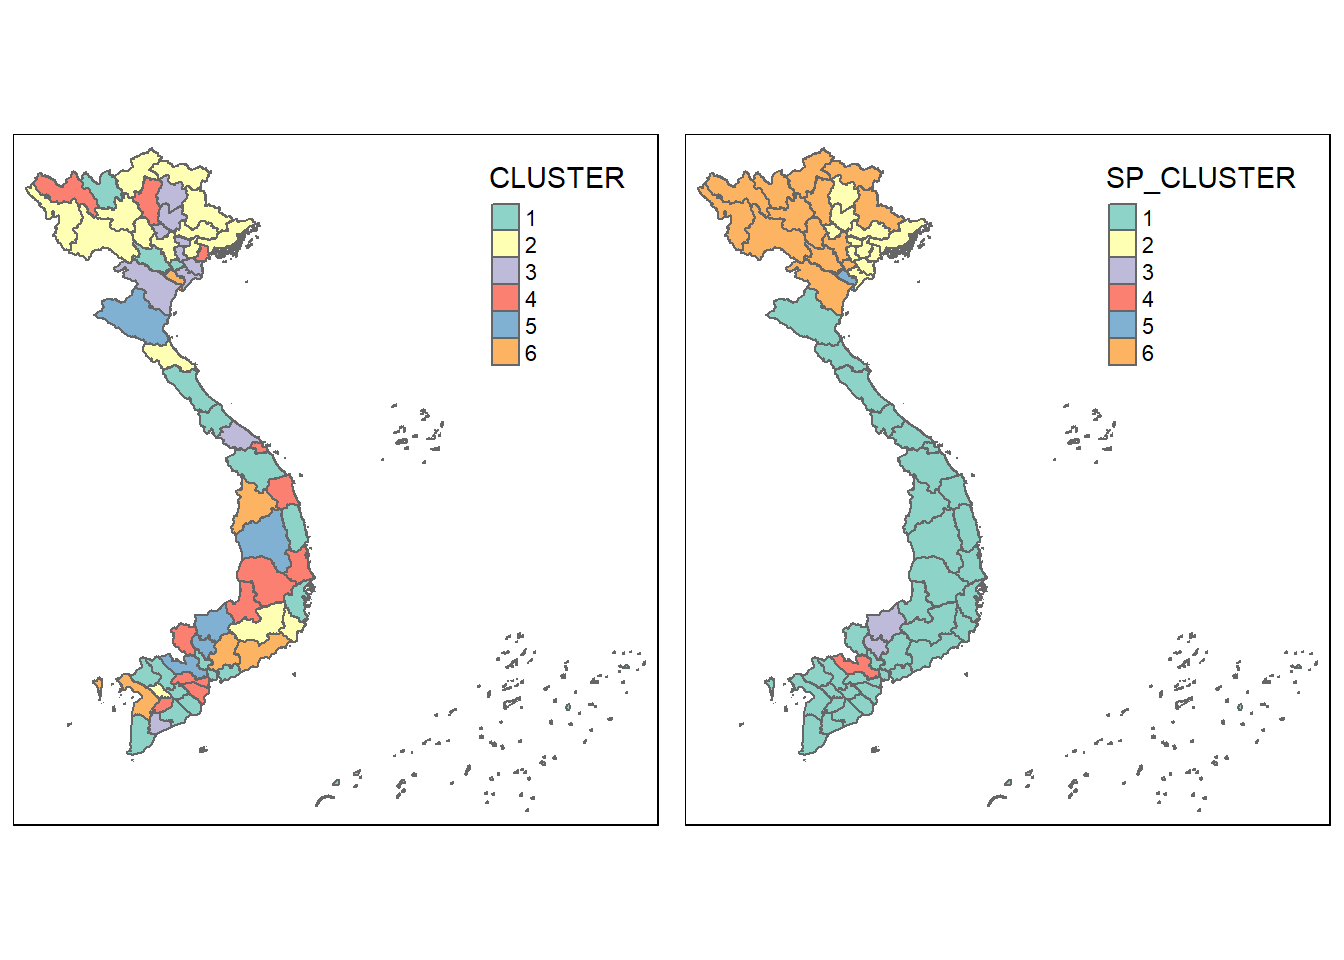
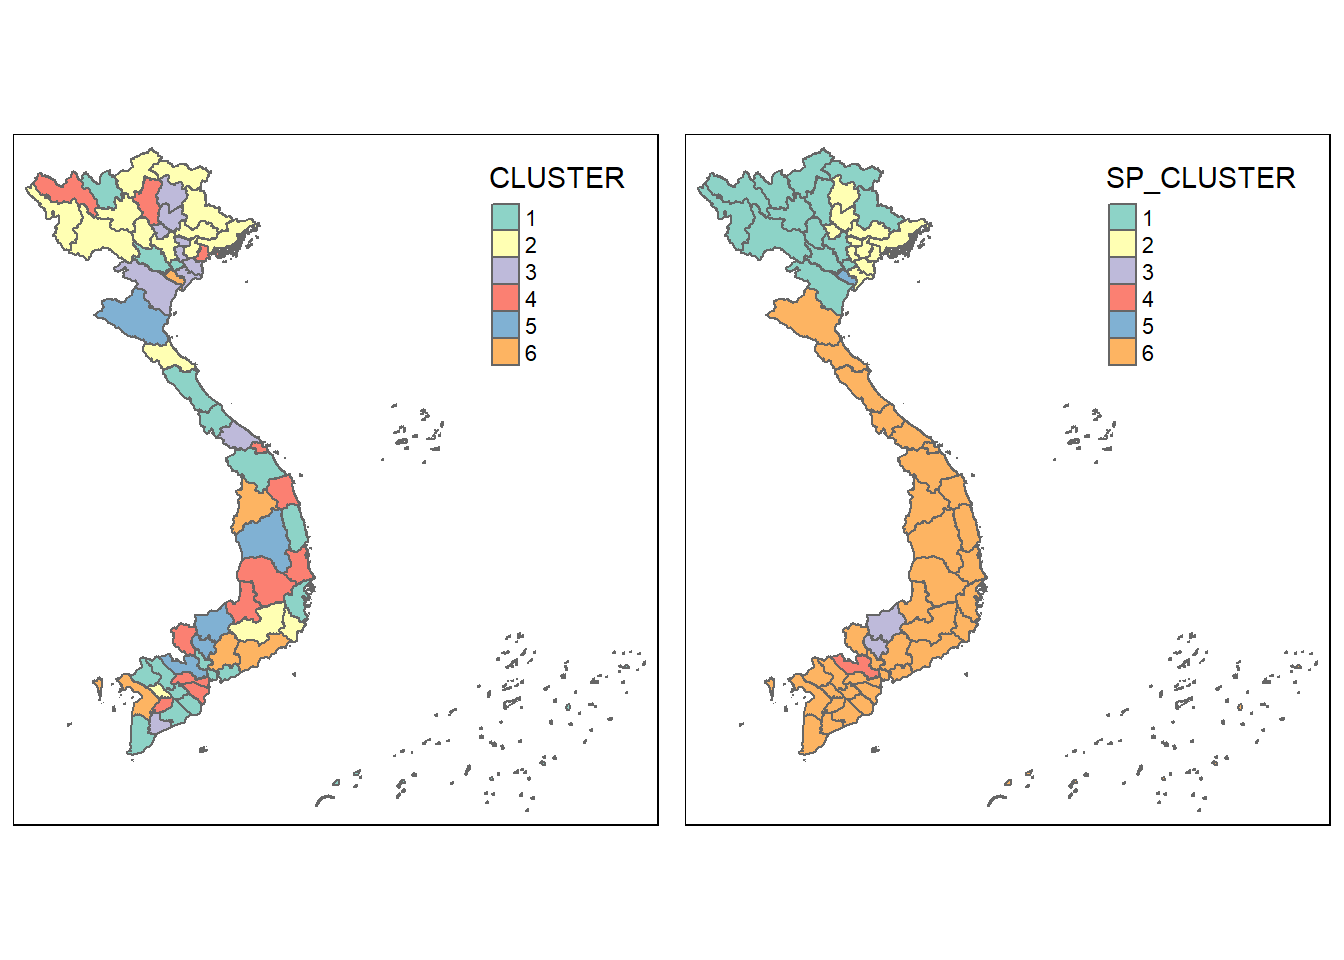
the3 final commit

Changed region(s): [[0.5938, 0.375, 0.75, 0.7812], [0.5, 0.1562, 0.6875, 0.375]]

diff --git a/_site/Take-home_Ex/Take-home_Ex03/the03.html b/_site/Take-home_Ex/Take-home_Ex03/the03.html
@@ -6,7 +6,7 @@
 
 <meta name="viewport" content="width=device-width, initial-scale=1.0, user-scalable=yes">
 
-<meta name="dcterms.date" content="2024-03-15">
+<meta name="dcterms.date" content="2024-03-24">
 
 <title>IS415-GAA - Take-home Exercise 03</title>
 <style>
@@ -153,6 +153,14 @@ pre > code.sourceCode > span > a:first-child::before { text-decoration: underlin
     <a class="dropdown-item" href="../../Hands-on_Ex/Hands-on_Ex08/Hands-on_Ex08.html" rel="" target="">
  <span class="dropdown-text">Hands-on Exercise 8</span></a>
   </li>  
+        <li>
+    <a class="dropdown-item" href="../../Hands-on_Ex/Hands-on_Ex09/Hands-on_Ex09.html" rel="" target="">
+ <span class="dropdown-text">Hands-on Exercise 9</span></a>
+  </li>  
+        <li>
+    <a class="dropdown-item" href="../../Hands-on_Ex/Hands-on_Ex09/Hands-on_Ex10.html" rel="" target="">
+ <span class="dropdown-text">Hands-on Exercise 10</span></a>
+  </li>  
     </ul>
   </li>
   <li class="nav-item dropdown ">
@@ -203,6 +211,10 @@ pre > code.sourceCode > span > a:first-child::before { text-decoration: underlin
     <a class="dropdown-item" href="../../Take-Home_Ex/Take-Home_Ex02/Take-Home_Ex02.html" rel="" target="">
  <span class="dropdown-text">Take home Exercise 2</span></a>
   </li>  
+        <li>
+    <a class="dropdown-item" href="../../Take-Home_Ex/Take-Home_Ex03/the03.html" rel="" target="">
+ <span class="dropdown-text">Take home Exercise 3</span></a>
+  </li>  
     </ul>
   </li>
 </ul>
@@ -233,7 +245,14 @@ pre > code.sourceCode > span > a:first-child::before { text-decoration: underlin
   <ul>
   <li><a href="#data-preparation-and-wrangling" id="toc-data-preparation-and-wrangling" class="nav-link active" data-scroll-target="#data-preparation-and-wrangling">1.0 Data preparation and wrangling</a></li>
   <li><a href="#clustering-using-skater-method" id="toc-clustering-using-skater-method" class="nav-link" data-scroll-target="#clustering-using-skater-method">2.0 Clustering using SKATER method</a></li>
-  <li><a href="#storyboard-ui" id="toc-storyboard-ui" class="nav-link" data-scroll-target="#storyboard-ui">3.0 Storyboard UI</a></li>
+  <li><a href="#storyboard-ui" id="toc-storyboard-ui" class="nav-link" data-scroll-target="#storyboard-ui">3.0 Storyboard UI</a>
+  <ul class="collapse">
+  <li><a href="#introduction" id="toc-introduction" class="nav-link" data-scroll-target="#introduction">3.1 Introduction</a></li>
+  <li><a href="#purpose" id="toc-purpose" class="nav-link" data-scroll-target="#purpose">3.2 Purpose</a></li>
+  <li><a href="#user-interface" id="toc-user-interface" class="nav-link" data-scroll-target="#user-interface">User Interface</a></li>
+  <li><a href="#further-development" id="toc-further-development" class="nav-link" data-scroll-target="#further-development">3.3 Further development</a></li>
+  <li><a href="#features-to-consider" id="toc-features-to-consider" class="nav-link" data-scroll-target="#features-to-consider">3.4 Features to consider</a></li>
+  </ul></li>
   </ul>
 </nav>
     </div>
@@ -253,7 +272,7 @@ pre > code.sourceCode > span > a:first-child::before { text-decoration: underlin
     <div>
     <div class="quarto-title-meta-heading">Published</div>
     <div class="quarto-title-meta-contents">
-      <p class="date">March 15, 2024</p>
+      <p class="date">March 24, 2024</p>
     </div>
   </div>
   
@@ -611,6 +630,7 @@ B 63 3969 4049.519 158688.5 1235388</code></pre>
 <span id="cb37-4"><a href="#cb37-4" aria-hidden="true" tabindex="-1"></a>                 <span class="at">ncuts =</span> <span class="dv">5</span>)</span></code><button title="Copy to Clipboard" class="code-copy-button"><i class="bi"></i></button></pre></div>
 </details>
 </div>
+<p>::: call-out note We have 2 parameters that we could offer for the interactive view in shiny</p>
 <div class="cell">
 <details>
 <summary>Code</summary>
@@ -618,12 +638,12 @@ B 63 3969 4049.519 158688.5 1235388</code></pre>
 </details>
 <div class="cell-output cell-output-stdout">
 <pre><code>List of 8
- $ groups      : num [1:63] 1 1 2 2 1 2 1 1 3 3 ...
+ $ groups      : num [1:63] 6 6 2 2 6 2 6 6 3 3 ...
  $ edges.groups:List of 6
   ..$ :List of 3
-  .. ..$ node: num [1:34] 41 46 15 43 20 28 36 25 61 7 ...
-  .. ..$ edge: num [1:33, 1:3] 25 28 8 8 29 58 21 61 20 45 ...
-  .. ..$ ssw : num 343
+  .. ..$ node: num [1:14] 56 63 52 60 44 38 24 14 30 22 ...
+  .. ..$ edge: num [1:13, 1:3] 52 52 38 44 38 24 63 63 63 52 ...
+  .. ..$ ssw : num 91.5
   ..$ :List of 3
   .. ..$ node: num [1:11] 3 6 31 54 55 27 4 40 62 49 ...
   .. ..$ edge: num [1:10, 1:3] 54 3 3 3 6 54 55 3 55 31 ...
@@ -641,9 +661,9 @@ B 63 3969 4049.519 158688.5 1235388</code></pre>
   .. ..$ edge: num[0 , 1:3] 
   .. ..$ ssw : num 0
   ..$ :List of 3
-  .. ..$ node: num [1:14] 52 63 56 60 44 38 24 14 30 22 ...
-  .. ..$ edge: num [1:13, 1:3] 56 52 63 44 38 24 63 63 52 52 ...
-  .. ..$ ssw : num 91.5
+  .. ..$ node: num [1:34] 25 15 43 20 28 36 41 61 7 58 ...
+  .. ..$ edge: num [1:33, 1:3] 41 28 8 8 29 58 21 61 20 45 ...
+  .. ..$ ssw : num 343
  $ not.prune   : NULL
  $ candidates  : int [1:6] 1 2 3 4 5 6
  $ ssto        : num 672
@@ -660,8 +680,8 @@ B 63 3969 4049.519 158688.5 1235388</code></pre>
 <span id="cb40-2"><a href="#cb40-2" aria-hidden="true" tabindex="-1"></a>ccs6</span></code><button title="Copy to Clipboard" class="code-copy-button"><i class="bi"></i></button></pre></div>
 </details>
 <div class="cell-output cell-output-stdout">
-<pre><code> [1] 1 1 2 2 1 2 1 1 3 3 1 1 1 6 1 1 1 6 1 1 1 6 6 6 1 2 2 1 1 6 2 1 1 1 6 1 6 6
-[39] 4 2 1 5 1 6 1 1 1 1 2 1 1 6 1 2 2 6 1 1 1 6 1 2 6</code></pre>
+<pre><code> [1] 6 6 2 2 6 2 6 6 3 3 6 6 6 1 6 6 6 1 6 6 6 1 1 1 6 2 2 6 6 1 2 6 6 6 1 6 1 1
+[39] 4 2 6 5 6 1 6 6 6 6 2 6 6 1 6 2 2 1 6 6 6 1 6 2 1</code></pre>
 </div>
 </div>
 <div class="cell">
@@ -679,6 +699,7 @@ B 63 3969 4049.519 158688.5 1235388</code></pre>
 <p><img src="the03_files/figure-html/unnamed-chunk-34-1.png" class="img-fluid" width="1920"></p>
 </div>
 </div>
+<p>::: call-out note Since we are doing our individual module analysis, we need to prepare some data for the graph.</p>
 <div class="cell">
 <details>
 <summary>Code</summary>
@@ -704,6 +725,7 @@ B 63 3969 4049.519 158688.5 1235388</code></pre>
 <span id="cb46-2"><a href="#cb46-2" aria-hidden="true" tabindex="-1"></a>  <span class="fu">rename</span>(<span class="st">`</span><span class="at">CLUSTER</span><span class="st">`</span><span class="ot">=</span><span class="st">`</span><span class="at">as.matrix.groups.</span><span class="st">`</span>)</span></code><button title="Copy to Clipboard" class="code-copy-button"><i class="bi"></i></button></pre></div>
 </details>
 </div>
+<p>::: call-out note Take note that the above 4 chunks of code might be duplicated in other modules.</p>
 <div class="cell">
 <details>
 <summary>Code</summary>
@@ -743,14 +765,44 @@ B 63 3969 4049.519 158688.5 1235388</code></pre>
 </section>
 <section id="storyboard-ui" class="level1">
 <h1>3.0 Storyboard UI</h1>
-<p>the 2 main sources that we will use to create the UI are the <code>shiny</code> and <code>shinydashboard</code> packages. The <code>shiny</code> package is used to create the UI and the <code>shinydashboard</code> package is used to create the dashboard layout.</p>
-<p>We can find information about shiny UI designing in the following link: https://shiny.rstudio.com/articles/layout-guide.html</p>
-<p>Additional resources: 1) https://shiny.posit.co/ 2) https://rstudio.github.io/cheatsheets/html/shiny.html?_gl=1<em>17a3ps8</em>_ga<em>MTAxMjM5NDEwMS4xNzA0NjM3NDA2</em>_ga_2C0WZ1JHG0*MTcxMDMxNzc1NS43LjEuMTcxMDMxNzg4OS4wLjAuMA.. 3) https://deanattali.com/blog/building-shiny-apps-tutorial/#11-using-uioutput-to-create-ui-elements-dynamically</p>
+<section id="introduction" class="level2">
+<h2 class="anchored" data-anchor-id="introduction">3.1 Introduction</h2>
+<p>The purpose of this dashboard is to provide a visual representation of the clustering of provinces in Vietnam based on the Provincial Competitiveness Index (PCI) data. The clustering is done using the SKATER method, which is a spatial clustering method that takes into account the spatial relationships between provinces.</p>
+</section>
+<section id="purpose" class="level2">
+<h2 class="anchored" data-anchor-id="purpose">3.2 Purpose</h2>
+<p>We strive to provide a user-friendly interface that allows users to interact with the data and explore the clusters in an intuitive way. The dashboard will include visualizations of the clusters on a map, as well as summary statistics of the clusters. Users will be able to change the number of clusters, the distance metric, and the agglomeration method used in the clustering process. This will aid the analysis of geographic segmentation of the provinces in Vietnam.</p>
+<p>Since we are targeting a non-technical audience, we aim to keep the dashboard simple and easy to use. The dashboard will be designed to be visually appealing and intuitive, with clear instructions on how to use it. However, jargon like “agglomeration” will be used to identify specific variable changes.</p>
+</section>
+<section id="user-interface" class="level2">
+<h2 class="anchored" data-anchor-id="user-interface">User Interface</h2>
 <p><img src="images/th3ui.jpg" class="img-fluid"></p>
-<p>As of now, there’ll be 3 parameters that the user can change: 1) The number of clusters 2) The distance metric 3) The agglomeration method. This is to give the user more control over the clustering process.</p>
-<p>Things that we could potentially look into: 1) Adding a map to the UI that shows the clusters 2) Adding a table that shows the provinces and their respective clusters 3) Allow users to change the level of clustering (i.e.&nbsp;from province to district level) 4) Allow users to change the variables that are used for clustering 5) Allow users to change the color of the clusters for better visuals</p>
+<p>As of now, there’ll be 3 parameters that the user can change:</p>
+<p>1) The number of clusters</p>
+<p>2) The distance metric</p>
+<p>3) The agglomeration method.</p>
+<p>This is to give the user more control over the clustering process.</p>
+</section>
+<section id="further-development" class="level2">
+<h2 class="anchored" data-anchor-id="further-development">3.3 Further development</h2>
+<p>The 2 main sources that we will use to create the UI are the <code>shiny</code> and <code>shinydashboard</code> packages. The <code>shiny</code> package is used to create the UI and the <code>shinydashboard</code> package is used to create the dashboard layout.</p>
+<p>We can find information about shiny UI designing in the following link: https://shiny.rstudio.com/articles/layout-guide.html</p>
+<p>Additional resources:</p>
+<p>1) https://shiny.posit.co/</p>
+<p>2) https://rstudio.github.io/cheatsheets/html/shiny.html?_gl=1<em>17a3ps8</em>_ga<em>MTAxMjM5NDEwMS4xNzA0NjM3NDA2</em>_ga_2C0WZ1JHG0*MTcxMDMxNzc1NS43LjEuMTcxMDMxNzg4OS4wLjAuMA..</p>
+<p>3) https://deanattali.com/blog/building-shiny-apps-tutorial/#11-using-uioutput-to-create-ui-elements-dynamically</p>
+</section>
+<section id="features-to-consider" class="level2">
+<h2 class="anchored" data-anchor-id="features-to-consider">3.4 Features to consider</h2>
+<p>Things that we could potentially look into:</p>
+<p>1) Adding a map to the UI that shows the clusters</p>
+<p>2) Adding a table that shows the provinces and their respective clusters</p>
+<p>3) Allow users to change the level of clustering (i.e.&nbsp;from province to district level)</p>
+<p>4) Allow users to change the variables that are used for clustering</p>
+<p>5) Allow users to change the color of the clusters for better visuals</p>
 
 
+</section>
 </section>
 
 </main> <!-- /main -->
